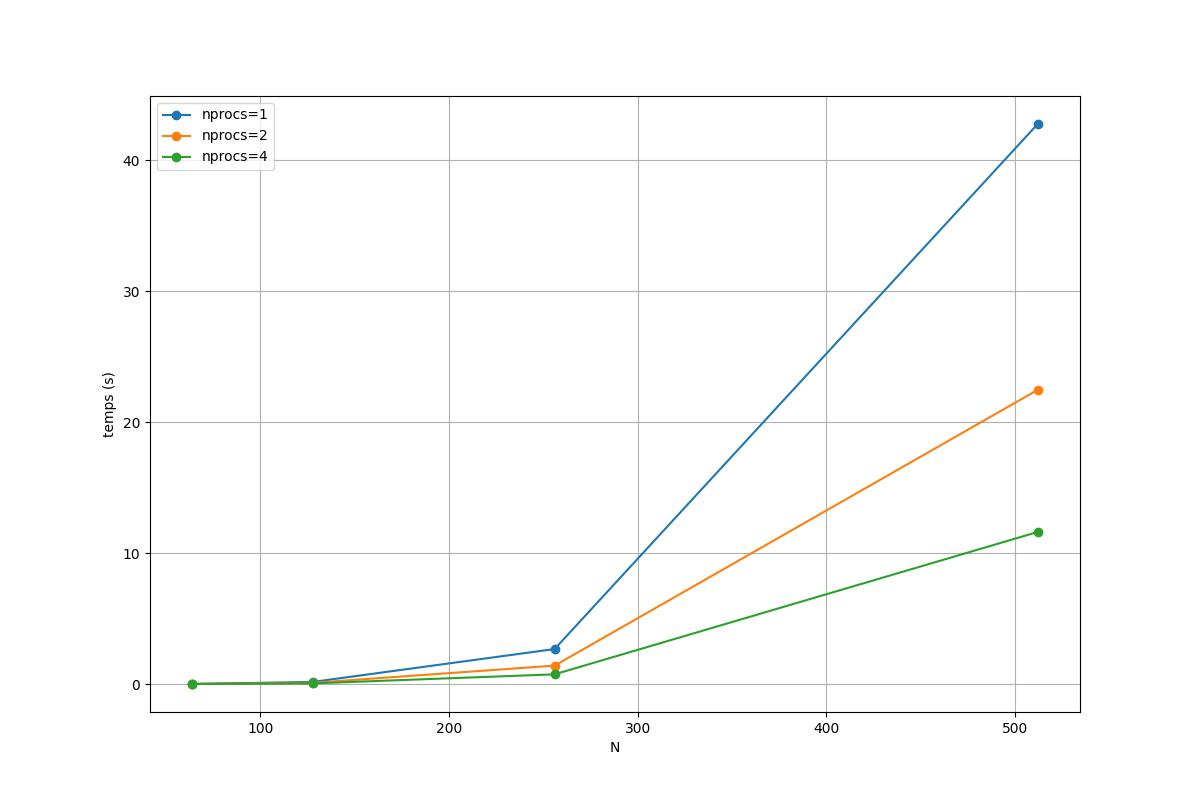
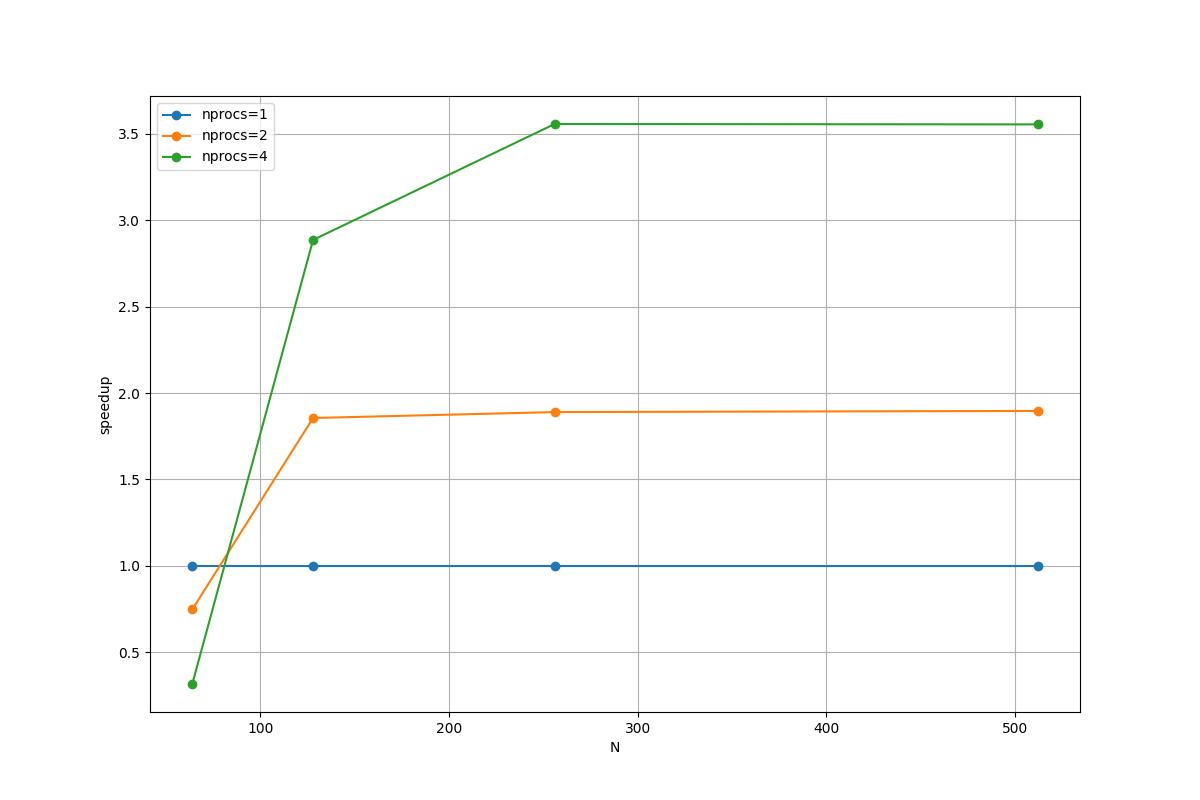
plot changes

diff --git a/graph/plot_mpi.py b/graph/plot_mpi.py
@@ -16,12 +16,12 @@ time2 = data2[:,1]
 time4 = data4[:,1]
 
 plt.figure(figsize=(12,8))
-plt.plot(sizes, time1, marker='o', label=f'nprocs=1')
-plt.plot(sizes, time2, marker='o', label=f'nprocs=2')
-plt.plot(sizes, time4, marker='o', label=f'nprocs=4')
+plt.plot(sizes, time1 / time1, marker='o', label=f'nprocs=1')
+plt.plot(sizes, time1 / time2, marker='o', label=f'nprocs=2')
+plt.plot(sizes, time1 / time4, marker='o', label=f'nprocs=4')
 
 plt.xlabel("N")
-plt.ylabel("temps (s)")
+plt.ylabel("speedup")
 plt.legend()
 plt.grid()
 plt.savefig("graph/img/performances_t=5e4.jpg")
